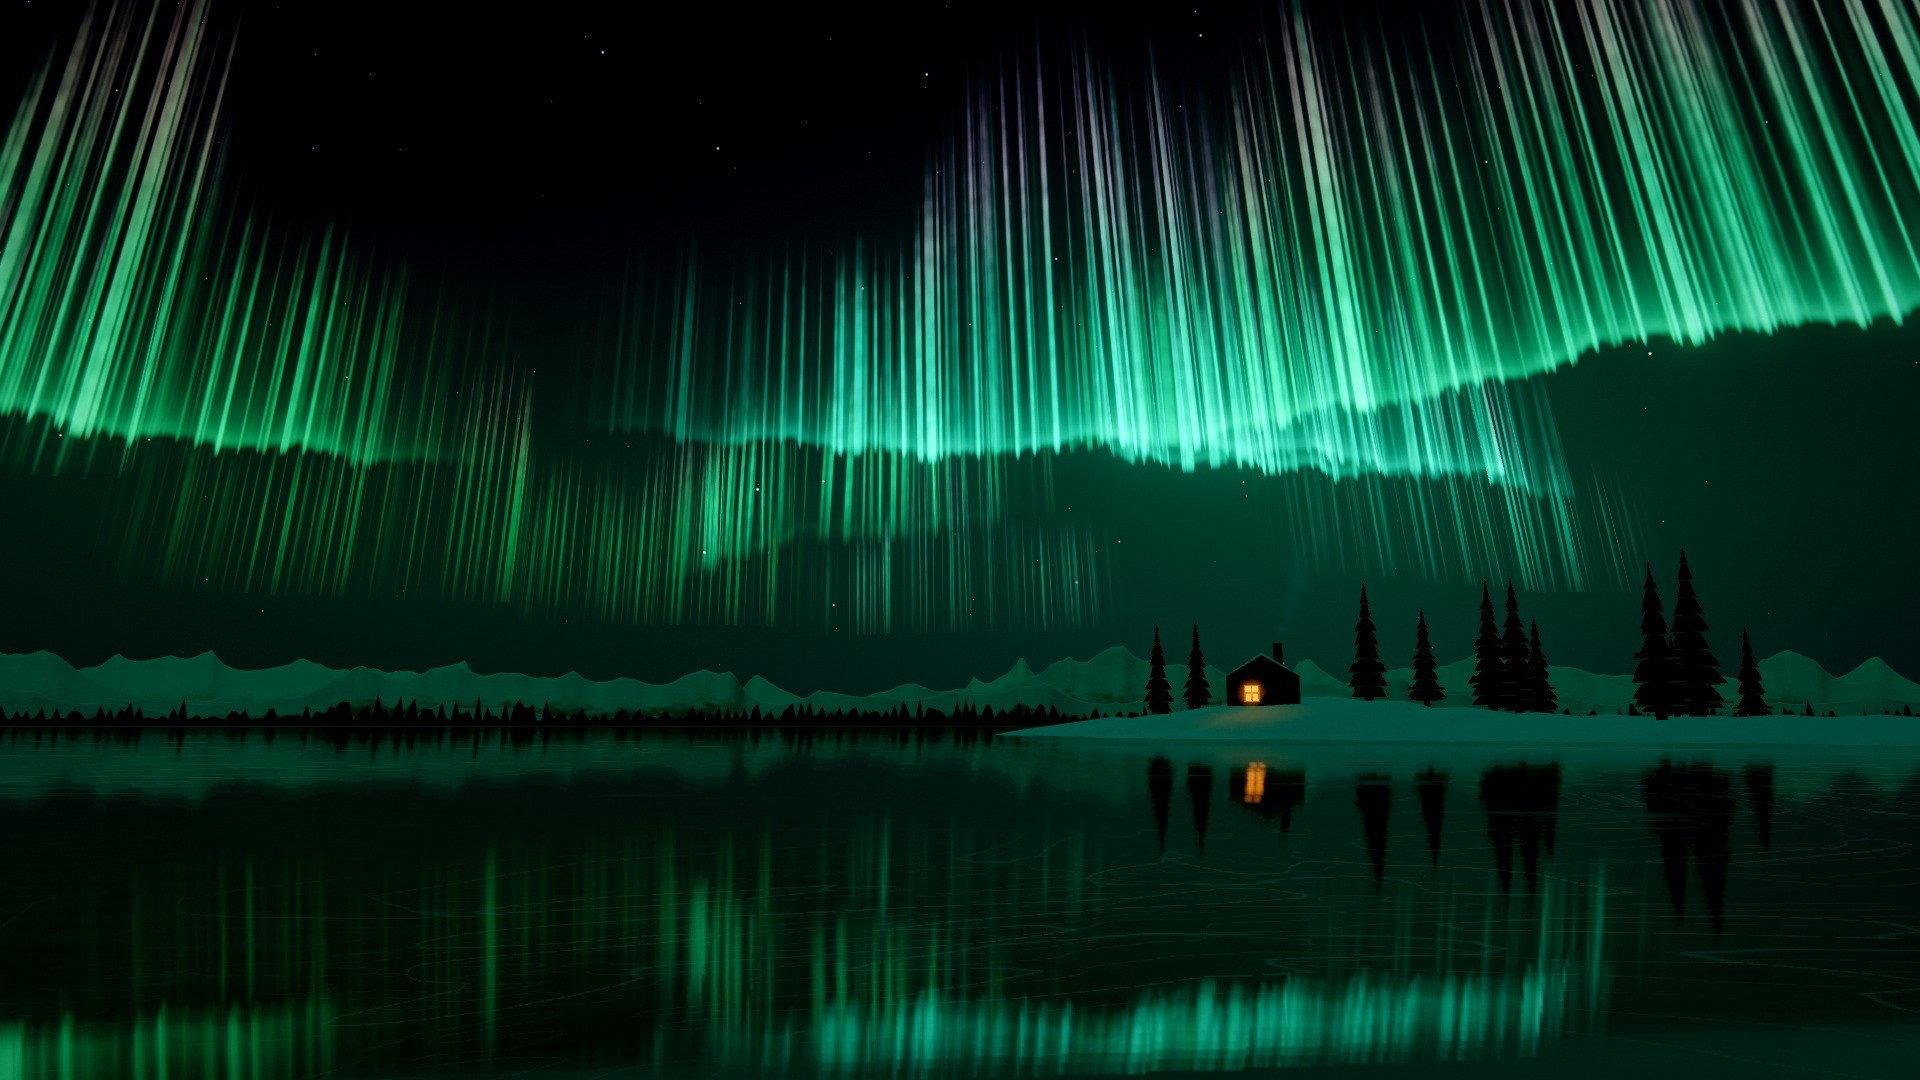
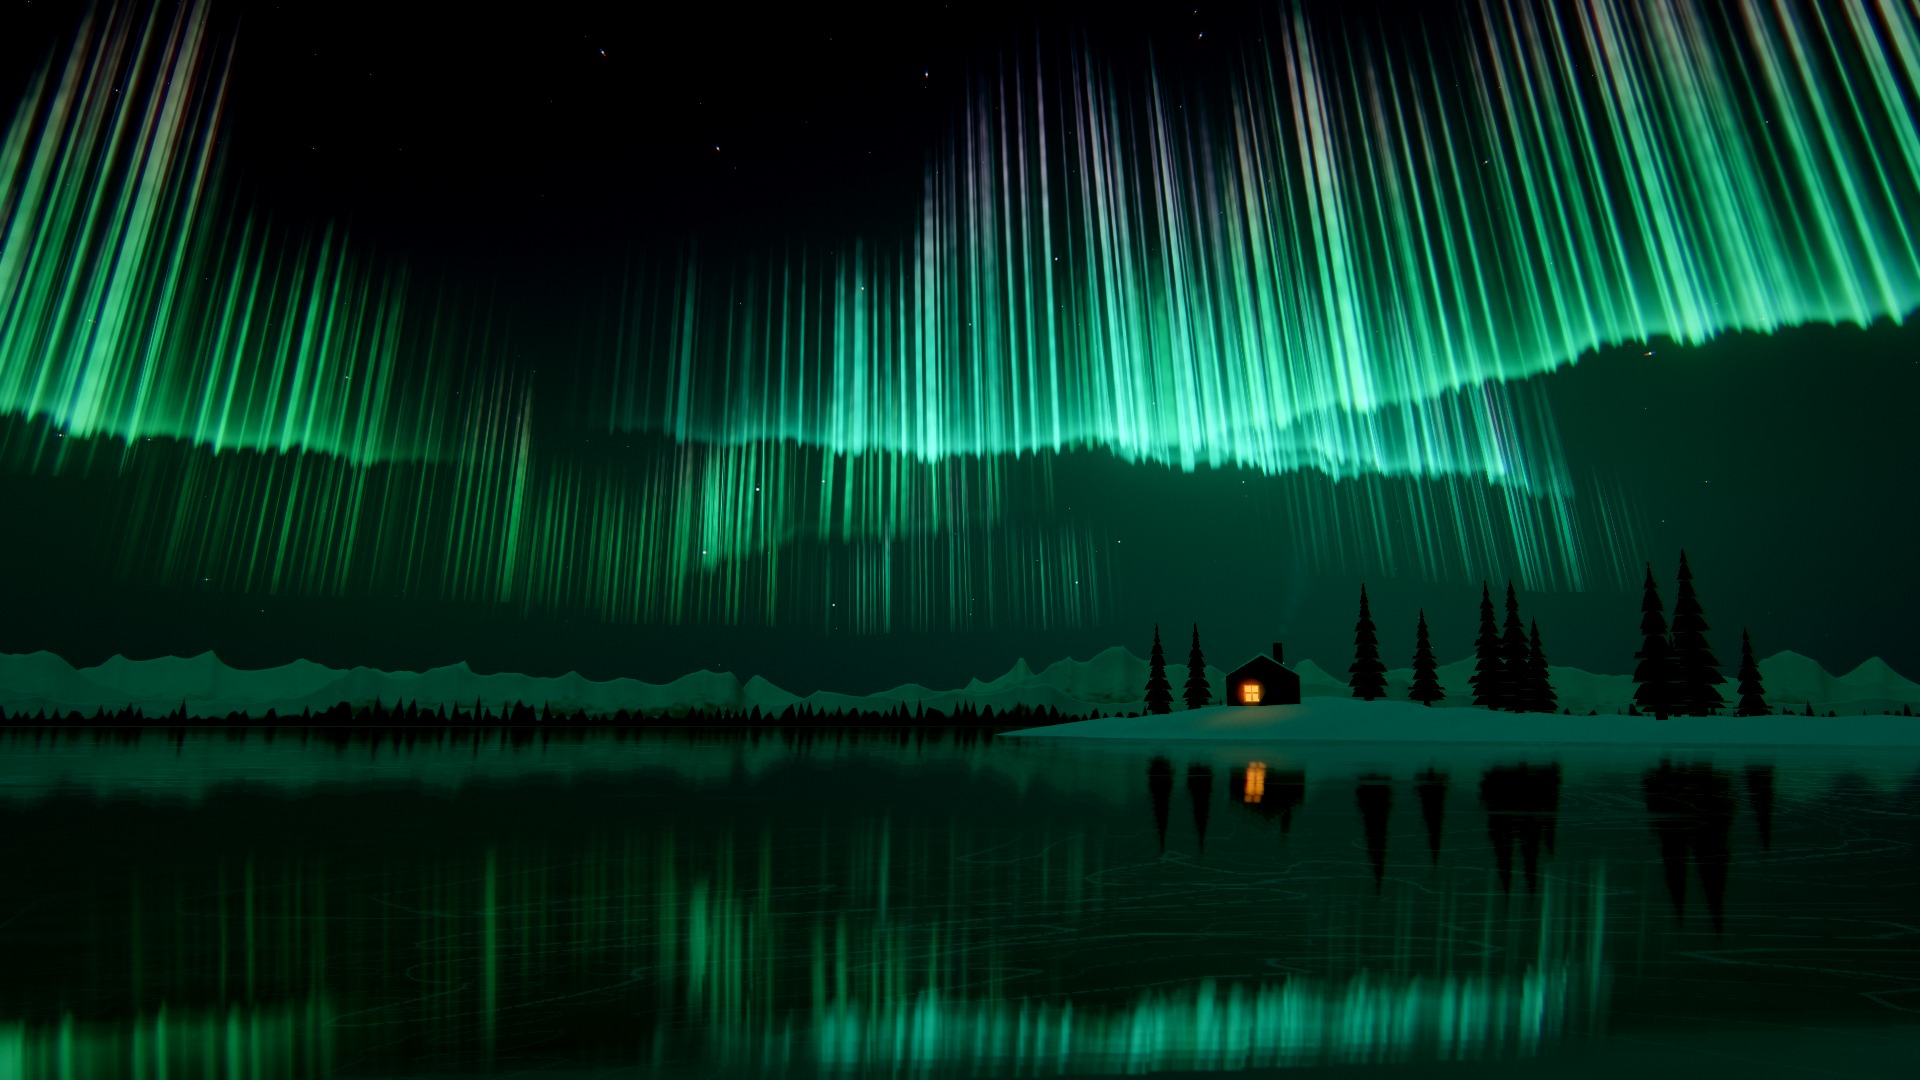
feat(aurora): chromatic aberration on by default, twice the finish's designed fringe
The world's grade asked for aberration 0.0012, so the Cinematic finish drew its optical fringe at 30 % of its designed strength and the lens hardly showed. Aurora now asks for 0.008: with the Cinematic finish a fringe of 0.6 % of the image height in the corners (about the Dreamlike finish's), red and cyan edges on the bright rays toward the corners, as a night sky through a real lens. technique.aberration still tunes it and 0 turns it off. The hero and portrait stills are rendered again with it.

diff --git a/public/worlds/aurora.js b/public/worlds/aurora.js
@@ -620,7 +620,9 @@ export function createFamily(ctx){
     return {tonemap:'agx',bloom:clamp(num(LT.bloom,1),.3,2)*.72*(1+.35*breakNow+.15*coronaNow),threshold:clamp(num(LT.bloomThreshold,.65),.5,.9)*1.25,
       exposure:(1+(clamp(num(LT.exposure,1.05),.4,2.2)-1)*.5)*1.15*(1+.12*breakNow)*(sec==='breath'?.97:sec==='lift'?1.03:1),
       contrast:clamp(num(LT.contrast,1),.85,1.3)*1.04,saturation:1.06*(1-.08*stormNow),vignette:num(LT.vignette,.3)*1.1,grain:num(LT.grain,.025)*.55,
-      flash:flash*inten,tint,aberration:.0012,bloomTint:{x:.92,y:1,z:.96},streak:.03};
+      // a night sky through a real lens: chromatic aberration on by default, twice the finish's designed fringe (red and
+      // cyan edges on the bright rays toward the corners); technique.aberration tunes it, 0 turns it off
+      flash:flash*inten,tint,aberration:.008,bloomTint:{x:.92,y:1,z:.96},streak:.03};
   }
   // ---- Words -------------------------------------------------------------------------------------------------------------
   const role=id=>M().districts.get(id)?.role||model.districts.get(id)?.role||'logic';

diff --git a/docs/worlds/aurora.md b/docs/worlds/aurora.md
@@ -97,6 +97,10 @@ history, see [Determinism](#determinism)) or the recipe; ambient life is labelle
   more air: its foot is soft and broken by its rays, with no hem line. Where a fold
   turns edge-on the sheet is brighter (the line of sight runs through more of it, up to three times). The ends and the
   top fade over a long, perceptual distance: under the tone curve a tenth of a bright curtain still shows.
+- **The lens**: chromatic aberration is on by default, as a night sky photographed through a real lens. The world's
+  grade asks for `aberration` 0.008, twice the finish's designed fringe (with the Cinematic finish an optical fringe of
+  0.6 % of the image height in the corners, about the Dreamlike finish's), so the bright rays carry red and cyan edges
+  toward the corners. `technique.aberration` tunes it in the Visual Studio, and 0 turns it off.
 - **Palette** (its own stream, `auroraPalette` in `engine/recipe.js`): the curtains' foot (`primary`: emerald, green or
   teal, 124–180°), the fringe (`secondary`: violet to magenta, 270–330°), the cabin's and the lanterns' warm light
   (`accent`), pale snow and stars (`highlight`), the night (`deep`, `haze`), `warning` a deep red at least 40° from the

diff --git a/CHANGELOG.md b/CHANGELOG.md
@@ -4,7 +4,8 @@
 
 - **Aurora, a new world (preview):** a polar night over a frozen lake, and the software is the aurora. Subsystems are
   curtains of light across the sky (folded sheets hanging along the magnetic field, a sharp bright lower edge, rays with dark
-  sky between them, green to teal at their foot and violet to magenta toward their tops), each in its own hue, layered in depth by order of
+  sky between them, green to teal at their foot and violet to magenta toward their tops, seen through a lens whose
+  chromatic aberration is on by default), each in its own hue, layered in depth by order of
   birth and as long as their files; files are the rays inside them, as tall as their symbols, igniting when born;
   dependencies are long, gentle field lines, barely there at rest and lit behind a wisp
   travelling along them. Agents are wisps that hover over the ice while waiting and fly up to ignite the ray
